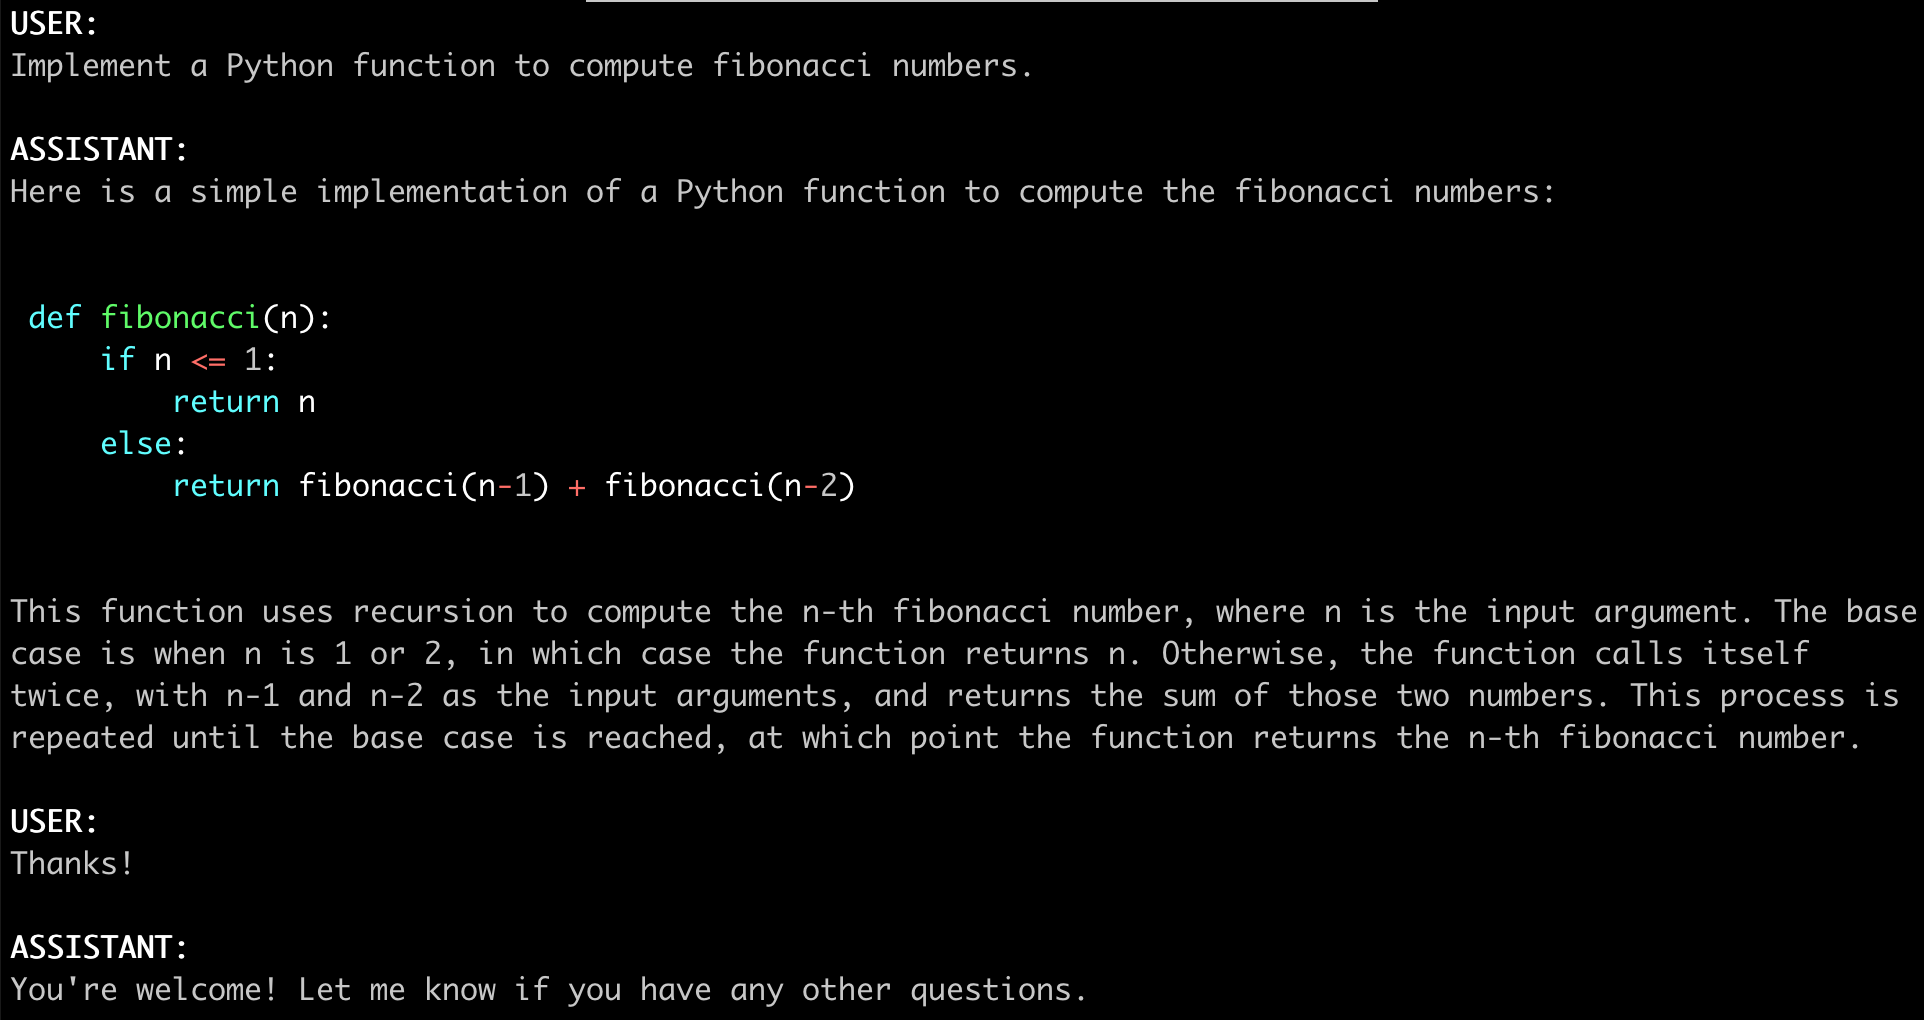
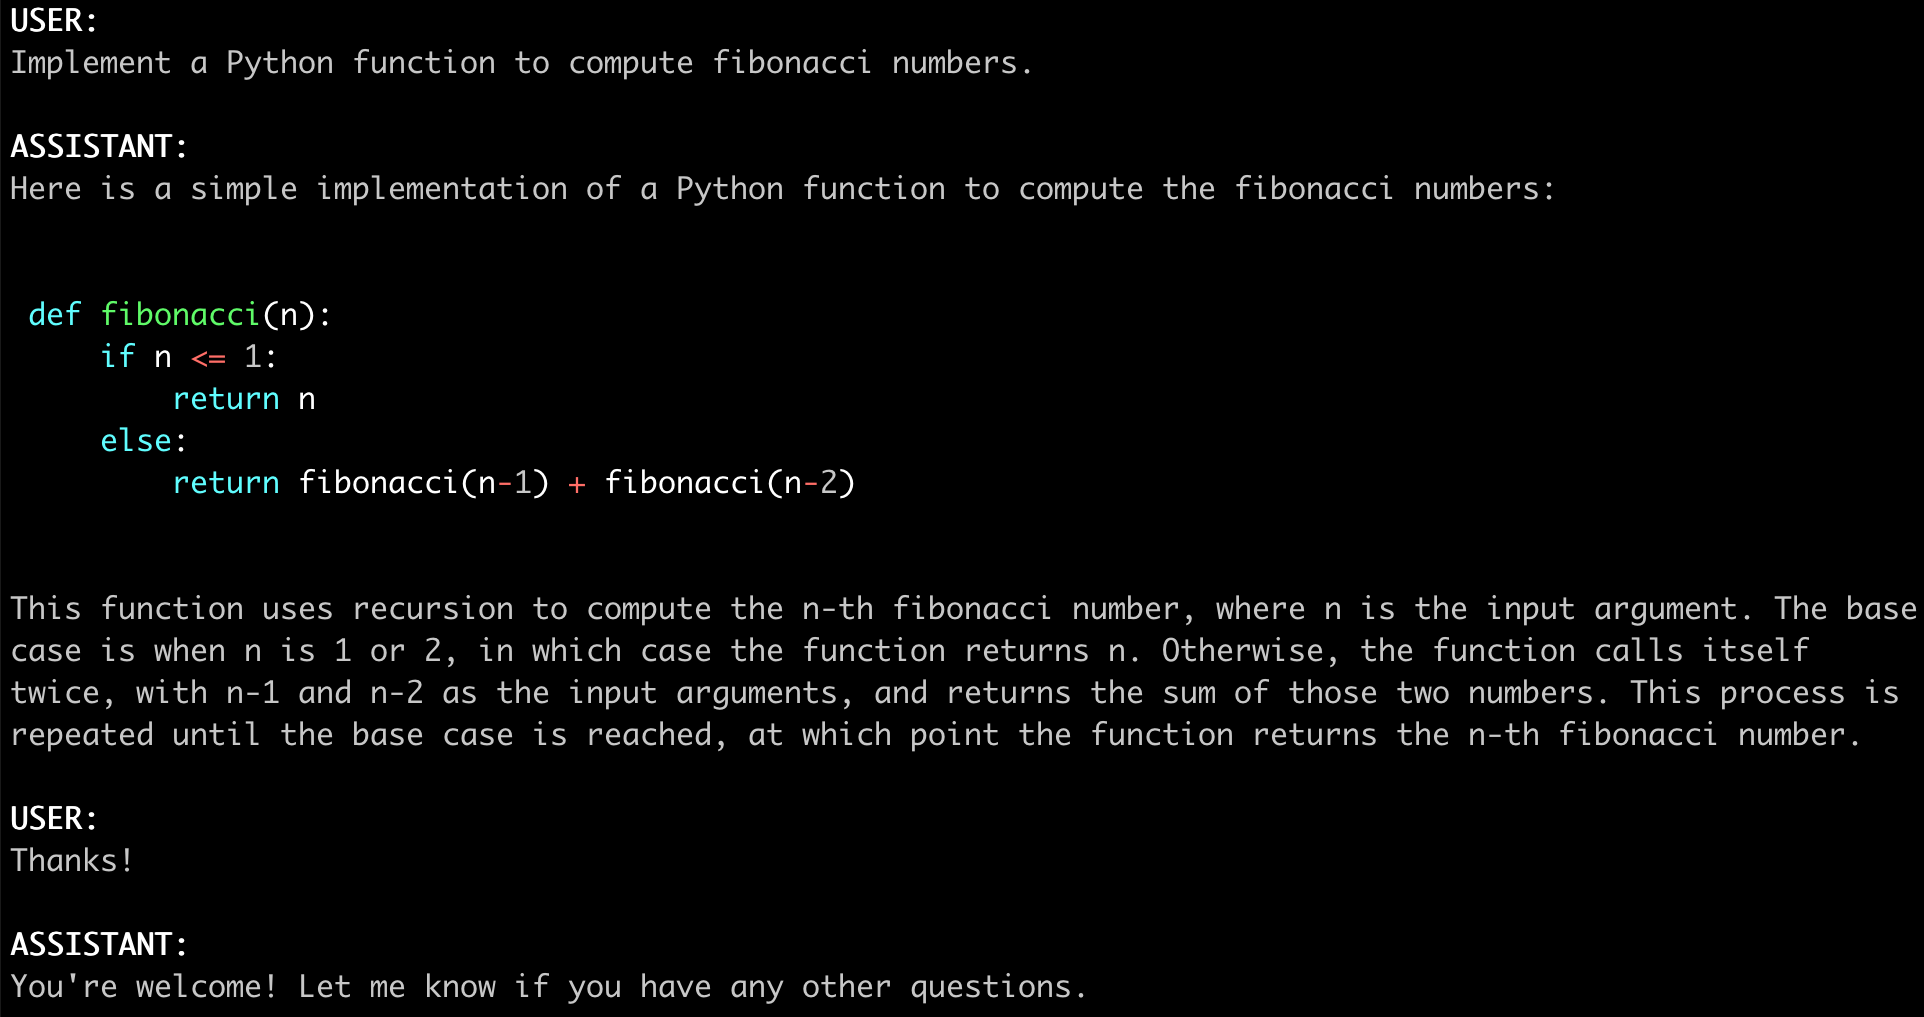
[FIX] Fix moderation in gradio server (#413)

diff --git a/fastchat/serve/gradio_web_server.py b/fastchat/serve/gradio_web_server.py
@@ -29,7 +29,8 @@ disable_btn = gr.Button.update(interactive=False)
 priority = {
     "vicuna-13b": "aaaaaaa",
     "koala-13b": "aaaaaab",
-    "chatglm-6b": "aaaaaac",
+    "dolly-v2-12b": "aaaaaac",
+    "chatglm-6b": "aaaaaad",
 }
 
 
@@ -138,18 +139,20 @@ def clear_history(request: gr.Request):
 
 def add_text(state, text, request: gr.Request):
     logger.info(f"add_text. ip: {request.client.host}. len: {len(text)}")
+
+    if state is None:
+        state = get_default_conv_template("vicuna").copy()
+
     if len(text) <= 0:
         state.skip_next = True
         return (state, state.to_gradio_chatbot(), "") + (no_change_btn,) * 5
     if args.moderate:
         flagged = violates_moderation(text)
         if flagged:
+            logger.info(f"violate moderation. ip: {request.client.host}. text: {text}")
             state.skip_next = True
             return (state, state.to_gradio_chatbot(), moderation_msg) + (
                 no_change_btn,) * 5
-
-    if state is None:
-        state = get_default_conv_template("vicuna").copy()
 
     text = text[:1536]  # Hard cut-off
     state.append_message(state.roles[0], text)
@@ -282,10 +285,10 @@ By using this service, users are required to agree to the following terms: The s
 ### Choose a model to chat with
 - [Vicuna](https://vicuna.lmsys.org): a chat assistant fine-tuned from LLaMA on user-shared conversations. This one is expected to perform best according to our evaluation.
 - [Koala](https://bair.berkeley.edu/blog/2023/04/03/koala/): a chatbot fine-tuned from LLaMA on user-shared conversations and open-source datasets. This one performs similarly to Vicuna.
-- [Dolly](https://www.databricks.com/blog/2023/04/12/dolly-first-open-commercially-viable-instruction-tuned-llm): An instruction-tuned open LLM by Databricks
+- [Dolly](https://www.databricks.com/blog/2023/04/12/dolly-first-open-commercially-viable-instruction-tuned-llm): an instruction-tuned open LLM by Databricks.
 - [ChatGLM](https://chatglm.cn/blog): an open bilingual dialogue language model | 开源双语对话语言模型
 - [Alpaca](https://crfm.stanford.edu/2023/03/13/alpaca.html): a model fine-tuned from LLaMA on 52K instruction-following demonstrations.
-- [LLaMA](https://arxiv.org/abs/2302.13971): open and efficient foundation language models
+- [LLaMA](https://arxiv.org/abs/2302.13971): open and efficient foundation language models.
 
 Note: If you are waiting in the queue, check out more benchmark results from GPT-4 on a static website [here](https://vicuna.lmsys.org/eval).
 """)

diff --git a/fastchat/serve/huggingface_api.py b/fastchat/serve/huggingface_api.py
@@ -1,3 +1,7 @@
+"""
+Usage:
+python3 -m fastchat.serve.huggingface_api --model ~/model_weights/vicuna-7b/
+"""
 import argparse
 import json
 

diff --git a/docs/weights_version.md b/docs/weights_version.md
@@ -1,12 +1,12 @@
 ## Vicuna-7B/13B
 
-| Weights Version | v1.1 | v0 |
+| Weights version | v1.1 | v0 |
 | ---- | ---- | ---- |
 | Link      | [7B](https://huggingface.co/lmsys/vicuna-7b-delta-v1.1), [13B](https://huggingface.co/lmsys/vicuna-13b-delta-v1.1) | [7B](https://huggingface.co/lmsys/vicuna-7b-delta-v0), [13B](https://huggingface.co/lmsys/vicuna-13b-delta-v0) |
 | Separator | `</s>` | `###` |
 | FastChat PyPI package compatibility | >= v0.2.0 |<= v0.1.10 |
 
-Major updates of Weights v1.1
+Major updates of weights v1.1
 - Refactor the tokenization and separator. In Vicuna v1.1, the separator has been changed from `###` to the EOS token `</s>`. This change makes it easier to determine the generation stop criteria and enables better compatibility with other libraries.
 - Fix the supervised fine-tuning loss computation for better model quality.
 

diff --git a/README.md b/README.md
@@ -61,8 +61,8 @@ You can add our delta to the original LLaMA weights to obtain the Vicuna weights
 2. Use the following scripts to get Vicuna weights by applying our delta. They will automatically download delta weights from our Hugging Face [account](https://huggingface.co/lmsys).
 
 **NOTE**:
-Our released weights are only compatible with the latest main branch of huggingface/transformers.
-We install the correct version of transformers when fastchat is installed.
+Weights v1.1 are only compatible with the latest main branch of huggingface/transformers and ``fschat >= 0.2.0``.
+Please update your local packages accordingly. If you follow the above commands to do a fresh install, then you should get all the correct versions.
 
 ### Vicuna-7B
 This conversion command needs around 30 GB of CPU RAM.
